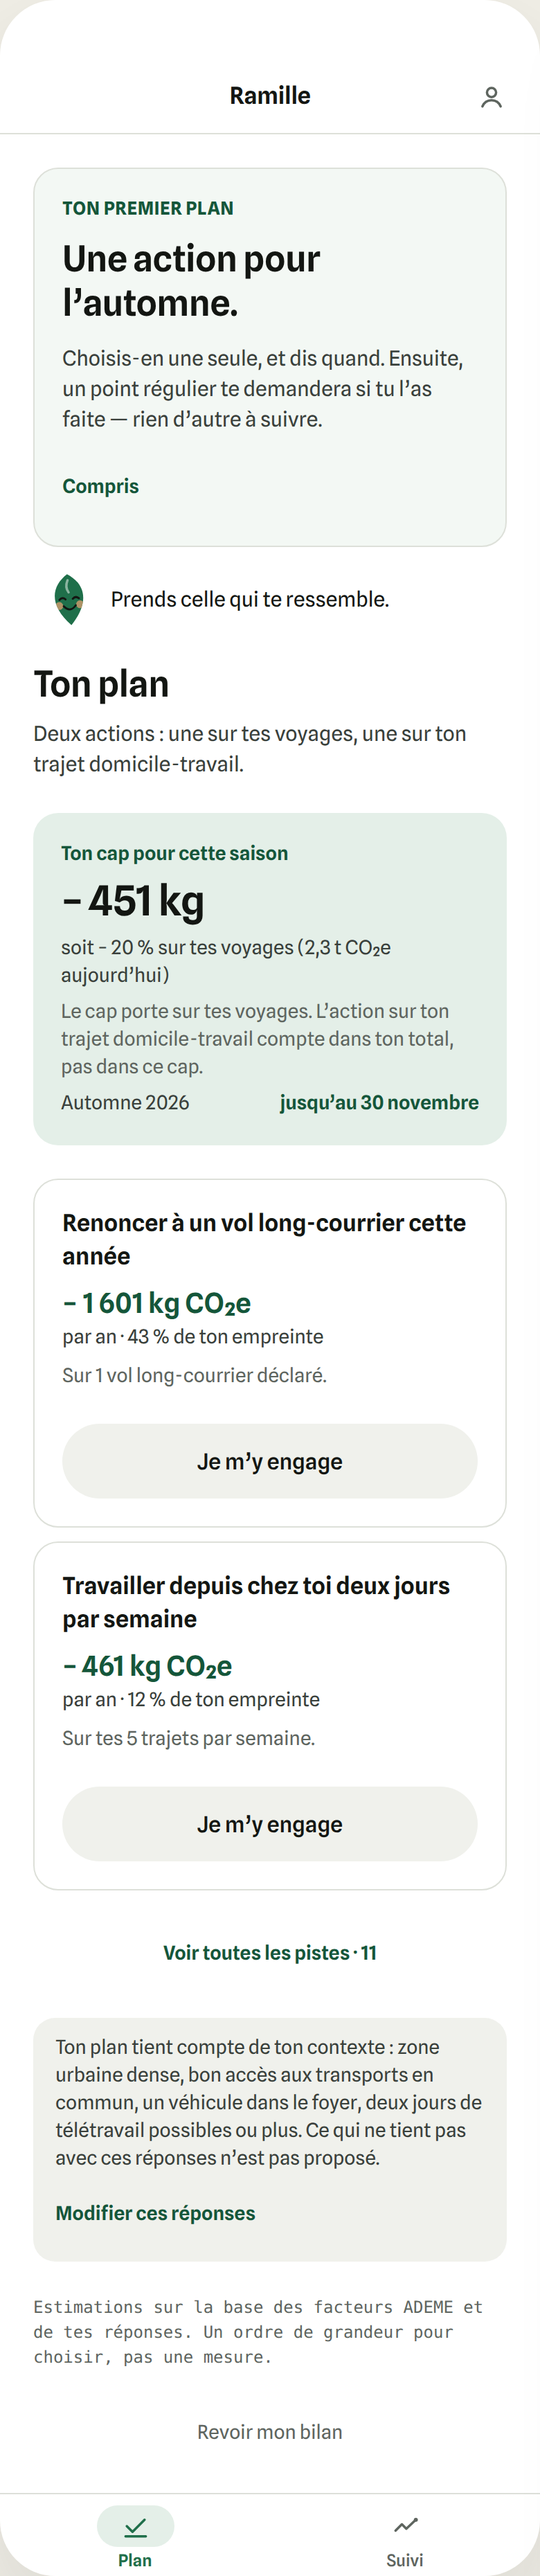
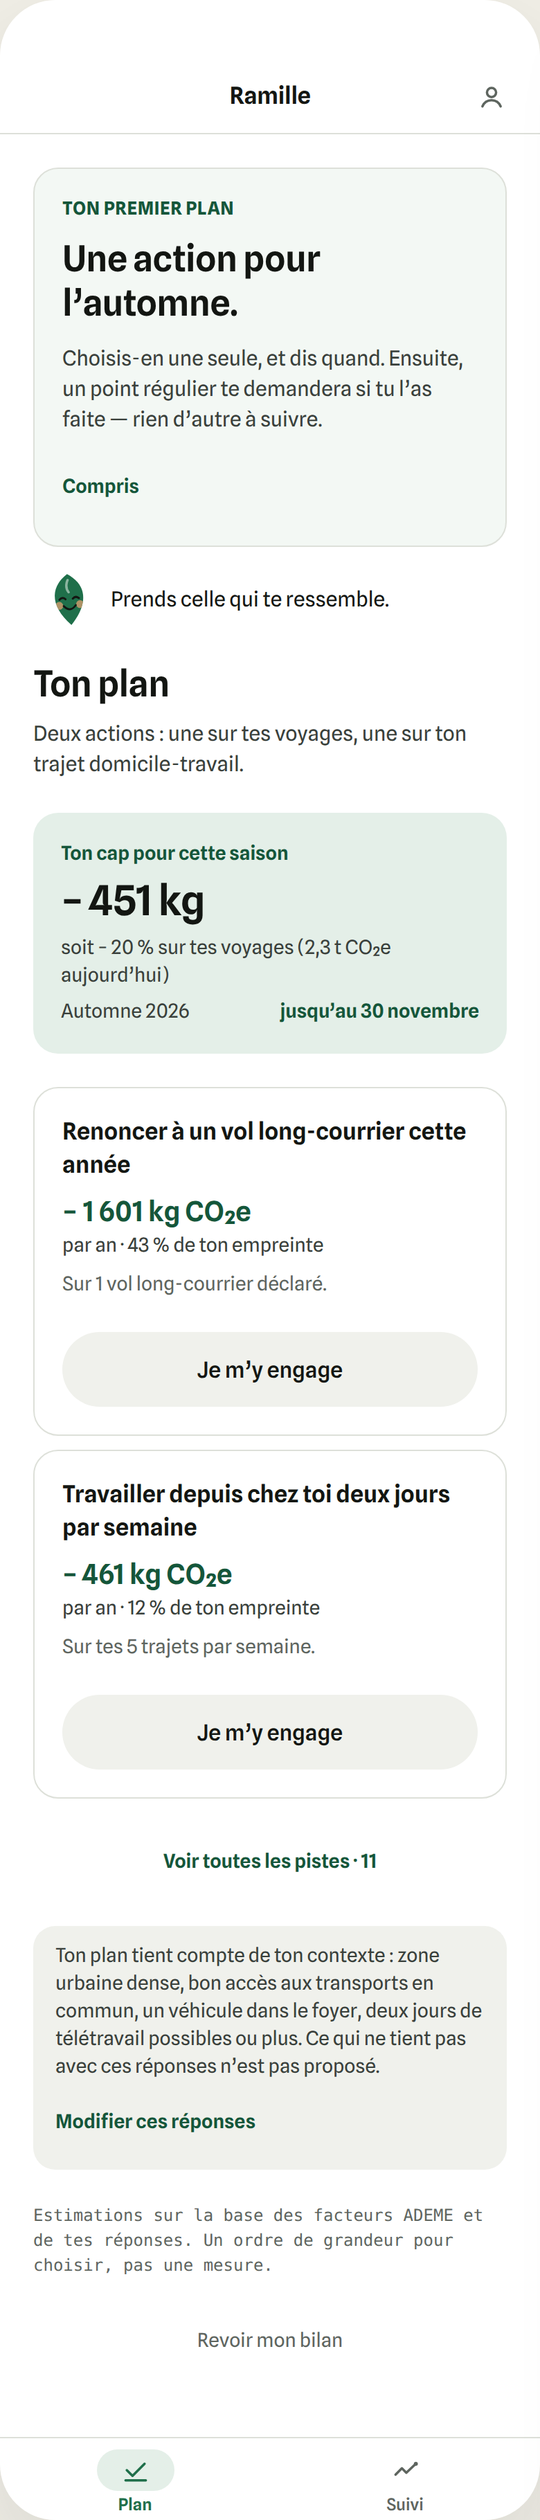
Canvas v1-17 : la note sous le cap disparaît — le cap est une quantité, pas une catégorie
Relecture du titulaire (16/09/2026) : « Le cap porte sur tes voyages. L'action sur ton trajet
domicile-travail compte dans ton total, pas dans ce cap. » était peu claire et pas nécessaire. Et
plus que ça : elle énonçait une règle que le produit n'applique nulle part — rien ne vérifie d'où
vient la réduction, et où elle se fait est le choix de la personne. La ligne « soit − 20 % sur tes
voyages » dit déjà d'où vient le nombre.

Retirée des planches A1, B1, B2 ; l'écart 7 devient « cadreDuPlan perd noteDuCap » ; le README
consigne la relecture. Captures A1, B1, B2 et Écarts refaites.

Claude-Session: https://claude.ai/code/session_01CyStmDzZb14yTNfPx15E26

diff --git a/docs/design/v1-17-densite-du-plan/Canvas.dc.html b/docs/design/v1-17-densite-du-plan/Canvas.dc.html
@@ -42,7 +42,7 @@
 
       <!-- A1 — le plan, sans engagement -->
       <div style="display:flex;flex-direction:column;gap:14px;width:390px">
-        <div data-screen-label="A1 — Le plan · le meilleur levier hors du poste dominant" style="width:390px;height:1700px;background:var(--c-bg);border-radius:40px;box-shadow:0 24px 60px rgba(19,22,18,0.10);overflow:hidden;display:flex;flex-direction:column;color:var(--c-text)">
+        <div data-screen-label="A1 — Le plan · le meilleur levier hors du poste dominant" style="width:390px;height:1660px;background:var(--c-bg);border-radius:40px;box-shadow:0 24px 60px rgba(19,22,18,0.10);overflow:hidden;display:flex;flex-direction:column;color:var(--c-text)">
           <div style="height:44px"></div>
           <div style="height:52px;display:flex;align-items:center;padding:0 13px;border-bottom:1px solid var(--c-border);flex-shrink:0"><span style="width:44px"></span><span style="flex:1;text-align:center;font-size:17px;line-height:24px;font-weight:600;letter-spacing:-0.1px">Ramille</span><span style="width:44px;display:flex;justify-content:center"><svg width="22" height="22" viewBox="0 0 24 24"><circle cx="12" cy="8.5" r="3.6" stroke="var(--c-text3)" stroke-width="1.9" fill="none"></circle><path d="M4.8 19.5c1.4-3.3 4-4.9 7.2-4.9s5.8 1.6 7.2 4.9" stroke="var(--c-text3)" stroke-width="1.9" stroke-linecap="round" fill="none"></path></svg></span></div>
           <div style="flex:1;overflow:hidden;padding:24px;display:flex;flex-direction:column;gap:24px">
@@ -61,7 +61,6 @@
               <span style="font-size:14px;line-height:20px;font-weight:600;color:var(--c-accent-text)">Ton cap pour cette saison</span>
               <span style="font-size:30px;line-height:36px;letter-spacing:-0.6px;font-weight:600">− 451 kg</span>
               <span style="font-size:14px;line-height:20px;color:var(--c-text2)">soit − 20 % sur tes voyages (2,3 t CO₂e aujourd’hui)</span>
-              <span style="font-size:14px;line-height:20px;color:var(--c-text3)">Le cap porte sur tes voyages. L’action sur ton trajet domicile-travail compte dans ton total, pas dans ce cap.</span>
               <div style="display:flex;justify-content:space-between;align-items:baseline;flex-wrap:wrap;gap:8px"><span style="font-size:14px;line-height:20px;color:var(--c-text2)">Automne 2026</span><span style="font-size:14px;line-height:20px;font-weight:600;color:var(--c-accent-text)">jusqu’au 30 novembre</span></div>
               <div style="height:6px;border-radius:3px;background:var(--c-border);overflow:hidden;margin-top:6px"><div style="width:17%;height:100%;border-radius:3px;background:var(--c-muted)"></div></div>
               <span style="font-size:12px;line-height:16px;color:var(--c-text3)">La saison avance ; le trait mesure le temps, pas toi.</span>
@@ -96,7 +95,7 @@
             <div style="flex:1;display:flex;flex-direction:column;align-items:center;gap:2px"><span style="width:56px;height:30px;display:inline-flex;align-items:center;justify-content:center"><svg width="22" height="22" viewBox="0 0 24 24"><path d="M4 15.5l5-5 3.5 3.5L20 7" stroke="var(--c-text3)" stroke-width="1.9" stroke-linecap="round" stroke-linejoin="round" fill="none"></path><circle cx="20" cy="7" r="1.6" fill="var(--c-text3)"></circle></svg></span><span style="font-size:12px;line-height:16px;font-weight:500;color:var(--c-text3)">Suivi</span></div>
           </div>
         </div>
-        <p style="margin:0;font-size:13px;line-height:19px;color:#5E655F;text-wrap:pretty">Le classement : <b>la meilleure piste du poste dominant d’abord, puis toutes les autres par gain</b>. La deuxième carte est le télétravail à 461 kg, plus une action de voyages à 48 kg. L’intro nomme les postes ; la note sous le cap dit ce qu’il mesure et ce que l’autre action fait, sans jamais dire « ne compte pas ». Le lien annonce le total : il ouvre la liste entière. L’encart de contexte (v1-18) ferme l’écran : les prémisses, la règle, la porte.</p>
+        <p style="margin:0;font-size:13px;line-height:19px;color:#5E655F;text-wrap:pretty">Le classement : <b>la meilleure piste du poste dominant d’abord, puis toutes les autres par gain</b>. La deuxième carte est le télétravail à 461 kg, plus une action de voyages à 48 kg. L’intro nomme les postes ; la carte du cap dit d’où vient le nombre, et rien de plus — le cap est une quantité, et où la réduction se fait est le choix de la personne. Le lien annonce le total : il ouvre la liste entière. L’encart de contexte (v1-18) ferme l’écran : les prémisses, la règle, la porte.</p>
       </div>
 
       <!-- A2 — toutes les pistes, l'écran (prototype) -->
@@ -193,7 +192,7 @@
 
       <!-- B1 — le tout premier plan -->
       <div style="display:flex;flex-direction:column;gap:14px;width:390px">
-        <div data-screen-label="B1 — Le tout premier plan" style="width:390px;height:1860px;background:var(--c-bg);border-radius:40px;box-shadow:0 24px 60px rgba(19,22,18,0.10);overflow:hidden;display:flex;flex-direction:column;color:var(--c-text)">
+        <div data-screen-label="B1 — Le tout premier plan" style="width:390px;height:1820px;background:var(--c-bg);border-radius:40px;box-shadow:0 24px 60px rgba(19,22,18,0.10);overflow:hidden;display:flex;flex-direction:column;color:var(--c-text)">
           <div style="height:44px"></div>
           <div style="height:52px;display:flex;align-items:center;padding:0 13px;border-bottom:1px solid var(--c-border);flex-shrink:0"><span style="width:44px"></span><span style="flex:1;text-align:center;font-size:17px;line-height:24px;font-weight:600;letter-spacing:-0.1px">Ramille</span><span style="width:44px;display:flex;justify-content:center"><svg width="22" height="22" viewBox="0 0 24 24"><circle cx="12" cy="8.5" r="3.6" stroke="var(--c-text3)" stroke-width="1.9" fill="none"></circle><path d="M4.8 19.5c1.4-3.3 4-4.9 7.2-4.9s5.8 1.6 7.2 4.9" stroke="var(--c-text3)" stroke-width="1.9" stroke-linecap="round" fill="none"></path></svg></span></div>
           <div style="flex:1;overflow:hidden;padding:24px;display:flex;flex-direction:column;gap:24px">
@@ -219,7 +218,6 @@
               <span style="font-size:14px;line-height:20px;font-weight:600;color:var(--c-accent-text)">Ton cap pour cette saison</span>
               <span style="font-size:30px;line-height:36px;letter-spacing:-0.6px;font-weight:600">− 451 kg</span>
               <span style="font-size:14px;line-height:20px;color:var(--c-text2)">soit − 20 % sur tes voyages (2,3 t CO₂e aujourd’hui)</span>
-              <span style="font-size:14px;line-height:20px;color:var(--c-text3)">Le cap porte sur tes voyages. L’action sur ton trajet domicile-travail compte dans ton total, pas dans ce cap.</span>
               <div style="display:flex;justify-content:space-between;align-items:baseline;flex-wrap:wrap;gap:8px"><span style="font-size:14px;line-height:20px;color:var(--c-text2)">Automne 2026</span><span style="font-size:14px;line-height:20px;font-weight:600;color:var(--c-accent-text)">jusqu’au 30 novembre</span></div>
             </div>
             <div style="display:flex;flex-direction:column;gap:10px">
@@ -254,7 +252,7 @@
 
       <!-- B2 — le plan de retour, engagé, point de la semaine -->
       <div style="display:flex;flex-direction:column;gap:14px;width:390px">
-        <div data-screen-label="B2 — Le plan de retour · action engagée, point de la semaine" style="width:390px;height:1960px;background:var(--c-bg);border-radius:40px;box-shadow:0 24px 60px rgba(19,22,18,0.10);overflow:hidden;display:flex;flex-direction:column;color:var(--c-text)">
+        <div data-screen-label="B2 — Le plan de retour · action engagée, point de la semaine" style="width:390px;height:1920px;background:var(--c-bg);border-radius:40px;box-shadow:0 24px 60px rgba(19,22,18,0.10);overflow:hidden;display:flex;flex-direction:column;color:var(--c-text)">
           <div style="height:44px"></div>
           <div style="height:52px;display:flex;align-items:center;padding:0 13px;border-bottom:1px solid var(--c-border);flex-shrink:0"><span style="width:44px"></span><span style="flex:1;text-align:center;font-size:17px;line-height:24px;font-weight:600;letter-spacing:-0.1px">Ramille</span><span style="width:44px;display:flex;justify-content:center"><svg width="22" height="22" viewBox="0 0 24 24"><circle cx="12" cy="8.5" r="3.6" stroke="var(--c-text3)" stroke-width="1.9" fill="none"></circle><path d="M4.8 19.5c1.4-3.3 4-4.9 7.2-4.9s5.8 1.6 7.2 4.9" stroke="var(--c-text3)" stroke-width="1.9" stroke-linecap="round" fill="none"></path></svg></span></div>
           <div style="flex:1;overflow:hidden;padding:24px;display:flex;flex-direction:column;gap:24px">
@@ -276,7 +274,6 @@
               <span style="font-size:14px;line-height:20px;font-weight:600;color:var(--c-accent-text)">Ton cap pour cette saison</span>
               <span style="font-size:30px;line-height:36px;letter-spacing:-0.6px;font-weight:600">− 451 kg</span>
               <span style="font-size:14px;line-height:20px;color:var(--c-text2)">soit − 20 % sur tes voyages (2,3 t CO₂e aujourd’hui)</span>
-              <span style="font-size:14px;line-height:20px;color:var(--c-text3)">Le cap porte sur tes voyages. L’action sur ton trajet domicile-travail compte dans ton total, pas dans ce cap.</span>
               <div style="display:flex;justify-content:space-between;align-items:baseline;flex-wrap:wrap;gap:8px"><span style="font-size:14px;line-height:20px;color:var(--c-text2)">Automne 2026</span><span style="font-size:14px;line-height:20px;font-weight:600;color:var(--c-accent-text)">jusqu’au 30 novembre</span></div>
               <div style="height:6px;border-radius:3px;background:var(--c-border);overflow:hidden;margin-top:6px"><div style="width:17%;height:100%;border-radius:3px;background:var(--c-muted)"></div></div>
               <span style="font-size:12px;line-height:16px;color:var(--c-text3)">La saison avance ; le trait mesure le temps, pas toi.</span>
@@ -586,7 +583,7 @@ const ECARTS = [
   { titre: 'La ligne ouverte se referme', avant: 'Une ligne dépliée ne se replie qu’avec « Replier », qui replie tout.', apres: '« Réduire » sous la carte : small tertiaire souligné, cible 44, comme « Changer d’avis ». Plusieurs lignes peuvent rester ouvertes.', apport: 'La densité de la liste est celle que la personne fait, ligne par ligne.', prix: 'Un TextLink et un état local, comme lignesOuvertes aujourd’hui.', ou: 'A2, A3' },
   { titre: 'La ligne engagée', avant: '—', apres: 'Pastille-coche 20 px + « Engagée » à la place de « Choisir » ; la ligne ne s’ouvre pas.', apport: 'L’engagement se lit dans la liste sans y chercher une carte saillante.', prix: 'Une branche de rendu ; le tracé existe.', ou: 'A3' },
   { titre: 'L’intro du plan nomme les postes', avant: '« Deux actions, dont une ailleurs que sur tes voyages. »', apres: '« Deux actions : une sur tes voyages, une sur ton trajet domicile-travail. » « … ailleurs que sur tes voyages » ne reste que si les autres actions ont plusieurs postes.', apport: '« Ailleurs » était un mot vague à l’endroit exact où la personne veut savoir où.', prix: 'cadreDuPlan : nommer le poste quand il est unique ; un cas de test de plus.', ou: 'A1, B1, B2' },
-  { titre: 'La note sous le cap', avant: '« Le cap porte sur tes voyages ; cette action porte ailleurs. »', apres: '« Le cap porte sur tes voyages. L’action sur ton trajet domicile-travail compte dans ton total, pas dans ce cap. »', apport: 'Elle dit d’abord pour quoi l’action compte. « Ne compte pas » devient impossible à lire, et le cap reste celui du poste dominant.', prix: 'Copy dans cadreDuPlan.', ou: 'A1, B1, B2' },
+  { titre: 'La note sous le cap', avant: '« Le cap porte sur tes voyages ; cette action porte ailleurs. » — presque jamais déclenchée ; le nouveau classement l’aurait réveillée sur la plupart des plans.', apres: 'Supprimée. La carte du cap dit d’où vient le nombre (« soit − 20 % sur tes voyages ») et rien de plus.', apport: 'Le cap est une quantité à atteindre, pas une catégorie : où la réduction se fait est le choix de la personne. Une phrase qui dirait « pas dans ce cap » énoncerait une règle que le produit n’applique nulle part. Une ligne de moins sur l’écran qu’on voulait alléger.', prix: 'cadreDuPlan perd noteDuCap et son test.', ou: 'A1, B1, B2' },
   { titre: 'Le tout premier plan', avant: 'Le même écran que le retour : carte d’attente, cap, trait, cartes.', apres: 'Carte « TON PREMIER PLAN » (motif CarteDeSaison) à la place de la carte d’attente, Ramille dessous, « Compris ». Trait de temps et légende absents tant que rien n’est engagé.', apport: 'La règle du jeu est dite une fois, là où on la découvre. Un trait sous un cap ne se lit plus comme une jauge.', prix: 'Un état dérivé (aucun cycle précédent, aucun engagement, rien d’archivé) et une marque locale, comme l’ouverture de saison. CarteDeSaison reçoit une ouverture de plus, sortiesDeLouverture une sortie « Compris ».', ou: 'B1' },
   { titre: 'L’encart de contexte sur le plan (v1-18)', avant: 'Rien : sept gabarits écartés sans un mot, nulle part.', apres: 'Encart au gabarit de C2.2 : les quatre réponses en mots, la règle « Ce qui ne tient pas avec ces réponses n’est pas proposé. », la porte « Modifier ces réponses ». Absent d’un plan à zéro action.', apport: 'La restriction se dit une fois, pour les sept, après coup et sans marchander : ni gain, ni action écartée nommée.', prix: 'Une table réponse → phrase dans src/types (épinglée par un test) ; la requête du plan lit les quatre colonnes de assessment_answers ; un TextLink.', ou: 'A1, B1, B2' },
   { titre: 'La porte « Modifier ces réponses »', avant: 'Le seul chemin était « Refaire mon bilan » : neuf étapes.', apres: 'Ouvre le questionnaire prérempli sur l’étape « Contexte de mobilité » (/bilan?etape=context). Soumettre régénère le plan comme un re-bilan.', apport: 'Corriger une réponse coûte un écran, pas neuf.', prix: 'Un paramètre lu par bilan/index.tsx. La mécanique du re-bilan ne change pas : C2.2 archive l’engagement et l’encart orphelin le dit.', ou: 'A1' },

diff --git a/docs/design/v1-17-densite-du-plan/HANDOFF.md b/docs/design/v1-17-densite-du-plan/HANDOFF.md
@@ -38,8 +38,10 @@ calcul. Les cadres des écrans qui défilent sont **allongés** pour tout montre
    contredire. Sur le profil de la recette : le vol long-courrier (1 601 kg) puis le télétravail à
    deux jours (461 kg) ; l'action de voyages à 48 kg redescend là où elle est. **Oui, une action
    d'un autre poste peut être la deuxième carte** ; elle n'est jamais la première tant que le poste
-   dominant a une piste. Elle se dit par l'intro, qui nomme les postes, et par la note sous le cap,
-   qui dit pour quoi elle compte avant de dire pour quoi elle ne compte pas.
+   dominant a une piste. Elle se dit par l'intro, qui nomme les postes. **La note sous le cap disparaît**
+   (relecture du titulaire, 16/09/2026) : le cap est une quantité à atteindre, la ligne « soit − 20 %
+   sur … » dit d'où vient le nombre, et où la réduction se fait est le choix de la personne. Une phrase
+   qui dirait « pas dans ce cap » énoncerait une règle que le produit n'applique nulle part.
 2. **Deux cartes sur le plan, et toutes les pistes derrière une porte.** Le dépli en place (D18) a
    été décidé quand un plan portait quatre à six pistes ; il en porte onze, et « déplier + ouvrir »
    fait onze cartes sur l'écran où l'on revient le plus souvent. La liste va sur **un écran de la
@@ -79,8 +81,8 @@ calcul. Les cadres des écrans qui défilent sont **allongés** pour tout montre
 ### Les questions ouvertes des briefs, une par une
 
 - v1-17 §7.1 — Une action d'un autre poste en première carte ? **Non tant que le dominant a une piste ;
-  en deuxième, oui.** La note sous le cap : « Le cap porte sur tes voyages. L'action sur ton trajet
-  domicile-travail compte dans ton total, pas dans ce cap. »
+  en deuxième, oui.** Et elle compte comme les autres : le cap est une quantité, la carte du cap dit
+  d'où vient le nombre et rien de plus. Aucune phrase ne dit qu'une action « ne compte pas ».
 - v1-17 §7.2 — Le nombre d'actions visible d'emblée ? **Seulement dans la porte, et c'est le total**
   (« Voir toutes les pistes · 11 »), parce que la porte ouvre la liste entière.
 - v1-17 §7.3 — Un premier plan doit-il montrer moins ? **Il montre la même chose** : deux cartes et la
@@ -108,8 +110,8 @@ Ce qui n'est pas listé est inchangé.
 5. **La ligne engagée** — pastille-coche 20 px + « Engagée », pas de bouton.
 6. **L'intro nomme les postes** — « Deux actions : une sur tes voyages, une sur ton trajet
    domicile-travail. »
-7. **La note sous le cap** — « Le cap porte sur tes voyages. L'action sur ton trajet domicile-travail
-   compte dans ton total, pas dans ce cap. »
+7. **La note sous le cap** — supprimée : `cadreDuPlan` perd `noteDuCap`. Le nouveau classement l'aurait
+   réveillée sur la plupart des plans, pour dire une règle que rien n'applique.
 8. **Le premier plan** — carte « TON PREMIER PLAN » à la place de la carte d'attente, Ramille
    dessous, « Compris » ; trait de temps absent tant que rien n'est engagé.
 9. **L'encart de contexte** (v1-18) — les quatre réponses en mots, la règle, la porte. Absent d'un
@@ -139,8 +141,7 @@ Profil de la recette, rien d'engagé, retour ordinaire.
   voyages, une sur ton trajet domicile-travail. »
 - **Carte du cap** : `backgroundSelected`, gap 6. « Ton cap pour cette saison » small 600
   `accentText` ; « − 451 kg » `salient` ; « soit − 20 % sur tes voyages (2,3 t CO₂e aujourd'hui) »
-  small `textSecondary` ; **note** small `textTertiary` « Le cap porte sur tes voyages. L'action sur
-  ton trajet domicile-travail compte dans ton total, pas dans ce cap. » ; période « Automne 2026 »
+  small `textSecondary` ; **pas de note** ; période « Automne 2026 »
   small `textSecondary` à gauche, « jusqu'au 30 novembre » small 600 `accentText` à droite ; trait
   6 px rail `border` rempli `accentMuted` (17 % le 16 septembre) ; légende 12/16 `textTertiary`.
 - **Deux cartes** (gap 10) : `ActionCard` bordure 1 px `border`, titre `cardTitle`, gain 20/26/600
@@ -253,8 +254,6 @@ sept conditions » ci-dessous.
 | Plan, intro (une ailleurs, poste unique) | Deux actions : une sur tes voyages, une sur ton trajet domicile-travail. |
 | Plan, intro (plusieurs postes ailleurs) | Trois actions, dont deux ailleurs que sur tes voyages. |
 | Plan, intro (aucune sur le dominant) | Deux actions, sur d'autres postes que tes voyages. |
-| Plan, note sous le cap (une ailleurs) | Le cap porte sur tes voyages. L'action sur ton trajet domicile-travail compte dans ton total, pas dans ce cap. |
-| Plan, note sous le cap (plusieurs) | Le cap porte sur tes voyages. Les actions sur d'autres postes comptent dans ton total, pas dans ce cap. |
 | Plan, la porte | Voir toutes les pistes · 11 |
 | Plan, encart de contexte | Ton plan tient compte de ton contexte : {zone}, {transports}, {véhicules}, {télétravail}. Ce qui ne tient pas avec ces réponses n'est pas proposé. |
 | Plan, porte de l'encart | Modifier ces réponses |

diff --git a/docs/design/v1-17-densite-du-plan/README.md b/docs/design/v1-17-densite-du-plan/README.md
@@ -29,7 +29,7 @@ sont cliquables.
 
 | Planche | Capture | Rôle |
 | --- | --- | --- |
-| A1 — Le plan · le meilleur levier hors du poste dominant | `A1-plan-levier-hors-dominant.png` | le nouveau classement, l'intro qui nomme les postes, la note sous le cap, la porte « Voir toutes les pistes · 11 », l'encart de contexte |
+| A1 — Le plan · le meilleur levier hors du poste dominant | `A1-plan-levier-hors-dominant.png` | le nouveau classement, l'intro qui nomme les postes, la porte « Voir toutes les pistes · 11 », l'encart de contexte |
 | A2 — Toutes les pistes · l'écran | `A2-toutes-les-pistes.png` | l'écran de la pile du plan, groupé par poste, en lignes qui s'ouvrent en carte |
 | A3 — Toutes les pistes · une ligne ouverte | `A3-toutes-les-pistes-ligne-ouverte.png` | la carte ouverte avec « Réduire », la ligne engagée |
 | B1 — Le tout premier plan | `B1-premier-plan.png` | la carte « TON PREMIER PLAN » à la place de la carte d'attente, Ramille dessous, pas de trait de temps |
@@ -58,6 +58,16 @@ sont cliquables.
 Ce que les briefs listaient et qui n'est pas dessiné : la planche « trois états de la question du
 télétravail » (v1-18 §8.2) — la forme retenue ne réagit pas au choix, ses trois états sont trois
 puces, visibles en D.
+
+## Relecture du 16/09/2026
+
+La première version portait, sous le cap, une note pour la deuxième carte quand elle est sur un
+autre poste : « Le cap porte sur tes voyages. L'action sur ton trajet domicile-travail compte dans
+ton total, pas dans ce cap. » Le titulaire l'a lue comme peu claire et pas nécessaire, et c'est plus
+que ça : le cap est une quantité à atteindre, dérivée du poste dominant, et rien dans le produit ne
+vérifie d'où vient la réduction — où elle se fait est le choix de la personne. La note énonçait une
+règle que rien n'applique, sur l'écran qu'on voulait alléger. Elle est retirée, et `cadreDuPlan`
+perd `noteDuCap` (écart 7).
 
 ## Ce que le canvas ne fait pas
 
